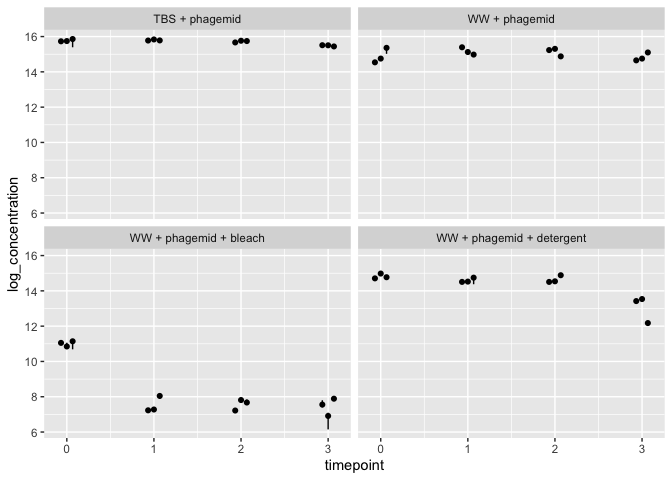
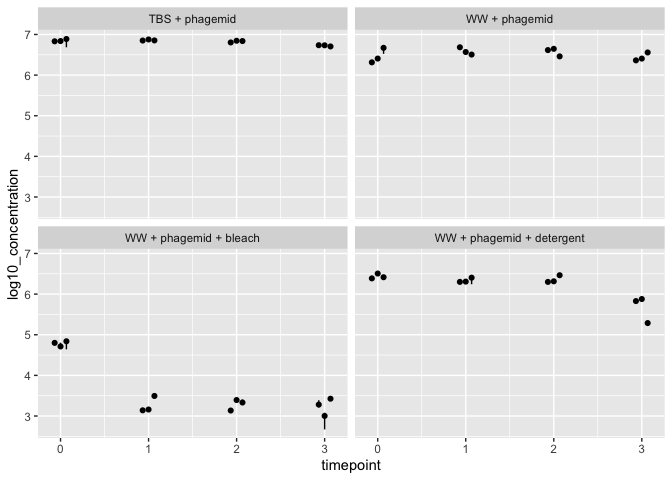
Fix error with the grouping of replicates

diff --git a/decay-experiment/qpcr_analysis.md b/decay-experiment/qpcr_analysis.md
@@ -325,23 +325,23 @@ data_concentration <- data_tidy |>
   filter(!control) |>
   mutate(
     dilution = (ct - std_curve_intercept) / std_curve_slope,
-    log_concentration = log(concentration_at_d0) + log(dilution_factor) * dilution,
+    log10_concentration = log10(concentration_at_d0) + log10(dilution_factor) * dilution,
   )
 kable(head(data_concentration, n = 10))
 ```
 
-|       ct | treatment_group | timepoint | tech_rep | well_position | ct_threshold | auto_ct_threshold | target_name | control | dilution | log_concentration |
-|---------:|:----------------|----------:|:---------|:--------------|-------------:|:------------------|:------------|:--------|---------:|------------------:|
-| 20.32065 | WW + phagemid   |         0 | 1        | C1            |          0.2 | FALSE             | Barcode_1   | FALSE   | 6.288793 |          14.46750 |
-| 19.76434 | WW + phagemid   |         0 | 2        | C2            |          0.2 | FALSE             | Barcode_1   | FALSE   | 6.439739 |          14.81506 |
-| 18.81370 | WW + phagemid   |         0 | 3        | C3            |          0.2 | FALSE             | Barcode_1   | FALSE   | 6.697681 |          15.40900 |
-| 18.81602 | WW + phagemid   |         1 | 1        | C4            |          0.2 | FALSE             | Barcode_1   | FALSE   | 6.697049 |          15.40754 |
-| 19.44741 | WW + phagemid   |         1 | 2        | C5            |          0.2 | FALSE             | Barcode_1   | FALSE   | 6.525733 |          15.01307 |
-| 19.54228 | WW + phagemid   |         1 | 3        | C6            |          0.2 | FALSE             | Barcode_1   | FALSE   | 6.499993 |          14.95380 |
-| 18.98299 | WW + phagemid   |         2 | 1        | C7            |          0.2 | FALSE             | Barcode_1   | FALSE   | 6.651747 |          15.30323 |
-| 18.98078 | WW + phagemid   |         2 | 2        | C8            |          0.2 | FALSE             | Barcode_1   | FALSE   | 6.652345 |          15.30461 |
-| 19.66541 | WW + phagemid   |         2 | 3        | C9            |          0.2 | FALSE             | Barcode_1   | FALSE   | 6.466582 |          14.87687 |
-| 20.02242 | WW + phagemid   |         3 | 1        | C10           |          0.2 | FALSE             | Barcode_1   | FALSE   | 6.369714 |          14.65382 |
+|       ct | treatment_group | timepoint | tech_rep | well_position | ct_threshold | auto_ct_threshold | target_name | control | dilution | log10_concentration |
+|---------:|:----------------|----------:|:---------|:--------------|-------------:|:------------------|:------------|:--------|---------:|--------------------:|
+| 20.32065 | WW + phagemid   |         0 | 1        | C1            |          0.2 | FALSE             | Barcode_1   | FALSE   | 6.288793 |            6.283155 |
+| 19.76434 | WW + phagemid   |         0 | 2        | C2            |          0.2 | FALSE             | Barcode_1   | FALSE   | 6.439739 |            6.434100 |
+| 18.81370 | WW + phagemid   |         0 | 3        | C3            |          0.2 | FALSE             | Barcode_1   | FALSE   | 6.697681 |            6.692042 |
+| 18.81602 | WW + phagemid   |         1 | 1        | C4            |          0.2 | FALSE             | Barcode_1   | FALSE   | 6.697049 |            6.691410 |
+| 19.44741 | WW + phagemid   |         1 | 2        | C5            |          0.2 | FALSE             | Barcode_1   | FALSE   | 6.525733 |            6.520094 |
+| 19.54228 | WW + phagemid   |         1 | 3        | C6            |          0.2 | FALSE             | Barcode_1   | FALSE   | 6.499993 |            6.494354 |
+| 18.98299 | WW + phagemid   |         2 | 1        | C7            |          0.2 | FALSE             | Barcode_1   | FALSE   | 6.651747 |            6.646108 |
+| 18.98078 | WW + phagemid   |         2 | 2        | C8            |          0.2 | FALSE             | Barcode_1   | FALSE   | 6.652345 |            6.646706 |
+| 19.66541 | WW + phagemid   |         2 | 3        | C9            |          0.2 | FALSE             | Barcode_1   | FALSE   | 6.466582 |            6.460943 |
+| 20.02242 | WW + phagemid   |         3 | 1        | C10           |          0.2 | FALSE             | Barcode_1   | FALSE   | 6.369714 |            6.364075 |
 
 Since we have three PCR replicates per technical replicate, we can
 summarize our data with min, median, and max without any loss of
@@ -351,64 +351,64 @@ information.
 data_concentration |>
   group_by(treatment_group, timepoint, tech_rep) |>
   summarize(
-    conc_min = min(log_concentration, na.rm = TRUE),
-    conc_med = median(log_concentration, na.rm = TRUE),
-    conc_max = max(log_concentration, na.rm = TRUE),
+    conc_min = min(log10_concentration, na.rm = TRUE),
+    conc_med = median(log10_concentration, na.rm = TRUE),
+    conc_max = max(log10_concentration, na.rm = TRUE),
     .groups="drop"
   ) |> 
   kable()
 ```
 
-| treatment_group           | timepoint | tech_rep |  conc_min |  conc_med |  conc_max |
-|:--------------------------|----------:|:---------|----------:|----------:|----------:|
-| TBS + phagemid            |         0 | 1        | 15.585203 | 15.730980 | 15.774331 |
-| TBS + phagemid            |         0 | 2        | 15.640385 | 15.744967 | 15.827471 |
-| TBS + phagemid            |         0 | 3        | 15.392854 | 15.860508 | 15.891046 |
-| TBS + phagemid            |         1 | 1        | 15.766611 | 15.774405 | 15.815867 |
-| TBS + phagemid            |         1 | 2        | 15.799626 | 15.835428 | 15.892060 |
-| TBS + phagemid            |         1 | 3        | 15.766942 | 15.780796 | 15.817647 |
-| TBS + phagemid            |         2 | 1        | 15.630437 | 15.666167 | 15.683122 |
-| TBS + phagemid            |         2 | 2        | 15.748995 | 15.762468 | 15.825183 |
-| TBS + phagemid            |         2 | 3        | 15.745316 | 15.745680 | 15.763973 |
-| TBS + phagemid            |         3 | 1        | 15.471512 | 15.509831 | 15.526576 |
-| TBS + phagemid            |         3 | 2        | 15.490110 | 15.504371 | 15.567375 |
-| TBS + phagemid            |         3 | 3        | 15.388014 | 15.439595 | 15.448920 |
-| WW + phagemid             |         0 | 1        | 14.467498 | 14.539121 | 14.559697 |
-| WW + phagemid             |         0 | 2        | 14.704875 | 14.752250 | 14.815063 |
-| WW + phagemid             |         0 | 3        | 15.020836 | 15.360500 | 15.408997 |
-| WW + phagemid             |         1 | 1        | 15.315593 | 15.392311 | 15.407542 |
-| WW + phagemid             |         1 | 2        | 15.013071 | 15.123416 | 15.193376 |
-| WW + phagemid             |         1 | 3        | 14.953803 | 14.979106 | 15.100242 |
-| WW + phagemid             |         2 | 1        | 15.222434 | 15.233419 | 15.303230 |
-| WW + phagemid             |         2 | 2        | 15.183994 | 15.304607 | 15.330360 |
-| WW + phagemid             |         2 | 3        | 14.873419 | 14.876872 | 14.948056 |
-| WW + phagemid             |         3 | 1        | 14.631852 | 14.651272 | 14.653825 |
-| WW + phagemid             |         3 | 2        | 14.742572 | 14.751832 | 14.800324 |
-| WW + phagemid             |         3 | 3        | 15.042985 | 15.098861 | 15.100316 |
-| WW + phagemid + bleach    |         0 | 1        | 11.023879 | 11.052359 | 11.103619 |
-| WW + phagemid + bleach    |         0 | 2        | 10.819916 | 10.849192 | 11.061266 |
-| WW + phagemid + bleach    |         0 | 3        | 10.687431 | 11.142662 | 11.213070 |
-| WW + phagemid + bleach    |         1 | 1        |  7.185397 |  7.231021 |  7.245195 |
-| WW + phagemid + bleach    |         1 | 2        |  7.247885 |  7.276237 |  7.328588 |
-| WW + phagemid + bleach    |         1 | 3        |  7.880027 |  8.045826 |  8.107687 |
-| WW + phagemid + bleach    |         2 | 1        |  7.131532 |  7.219262 |  7.287010 |
-| WW + phagemid + bleach    |         2 | 2        |  7.770489 |  7.813055 |  7.832202 |
-| WW + phagemid + bleach    |         2 | 3        |  7.650187 |  7.672781 |  7.842286 |
-| WW + phagemid + bleach    |         3 | 1        |  7.398282 |  7.554920 |  7.801422 |
-| WW + phagemid + bleach    |         3 | 2        |  6.148432 |  6.912249 |  7.093166 |
-| WW + phagemid + bleach    |         3 | 3        |  7.767307 |  7.889023 |  7.912897 |
-| WW + phagemid + detergent |         0 | 1        | 14.691215 | 14.707181 | 14.723714 |
-| WW + phagemid + detergent |         0 | 2        | 14.937496 | 14.981082 | 14.986873 |
-| WW + phagemid + detergent |         0 | 3        | 14.630075 | 14.772313 | 14.884848 |
-| WW + phagemid + detergent |         1 | 1        | 14.460672 | 14.507884 | 14.530743 |
-| WW + phagemid + detergent |         1 | 2        | 14.431200 | 14.524827 | 14.569874 |
-| WW + phagemid + detergent |         1 | 3        | 14.375207 | 14.747474 | 14.834689 |
-| WW + phagemid + detergent |         2 | 1        | 14.445850 | 14.506649 | 14.514520 |
-| WW + phagemid + detergent |         2 | 2        | 14.399098 | 14.540501 | 14.597506 |
-| WW + phagemid + detergent |         2 | 3        | 14.829546 | 14.885799 | 14.944224 |
-| WW + phagemid + detergent |         3 | 1        | 13.393890 | 13.420946 | 13.479134 |
-| WW + phagemid + detergent |         3 | 2        | 13.508365 | 13.536396 | 13.662985 |
-| WW + phagemid + detergent |         3 | 3        | 12.045272 | 12.175395 | 12.181063 |
+| treatment_group           | timepoint | tech_rep | conc_min | conc_med | conc_max |
+|:--------------------------|----------:|:---------|---------:|---------:|---------:|
+| TBS + phagemid            |         0 | 1        | 6.768568 | 6.831878 | 6.850705 |
+| TBS + phagemid            |         0 | 2        | 6.792533 | 6.837952 | 6.873783 |
+| TBS + phagemid            |         0 | 3        | 6.685031 | 6.888131 | 6.901394 |
+| TBS + phagemid            |         1 | 1        | 6.847352 | 6.850737 | 6.868744 |
+| TBS + phagemid            |         1 | 2        | 6.861691 | 6.877239 | 6.901834 |
+| TBS + phagemid            |         1 | 3        | 6.847496 | 6.853513 | 6.869517 |
+| TBS + phagemid            |         2 | 1        | 6.788213 | 6.803730 | 6.811093 |
+| TBS + phagemid            |         2 | 2        | 6.839702 | 6.845553 | 6.872789 |
+| TBS + phagemid            |         2 | 3        | 6.838104 | 6.838262 | 6.846207 |
+| TBS + phagemid            |         3 | 1        | 6.719192 | 6.735834 | 6.743106 |
+| TBS + phagemid            |         3 | 2        | 6.727269 | 6.733463 | 6.760825 |
+| TBS + phagemid            |         3 | 3        | 6.682930 | 6.705331 | 6.709381 |
+| WW + phagemid             |         0 | 1        | 6.283155 | 6.314260 | 6.323196 |
+| WW + phagemid             |         0 | 2        | 6.386246 | 6.406821 | 6.434100 |
+| WW + phagemid             |         0 | 3        | 6.523466 | 6.670980 | 6.692042 |
+| WW + phagemid             |         1 | 1        | 6.651478 | 6.684796 | 6.691410 |
+| WW + phagemid             |         1 | 2        | 6.520094 | 6.568016 | 6.598399 |
+| WW + phagemid             |         1 | 3        | 6.494354 | 6.505343 | 6.557952 |
+| WW + phagemid             |         2 | 1        | 6.611019 | 6.615790 | 6.646108 |
+| WW + phagemid             |         2 | 2        | 6.594325 | 6.646706 | 6.657891 |
+| WW + phagemid             |         2 | 3        | 6.459444 | 6.460943 | 6.491859 |
+| WW + phagemid             |         3 | 1        | 6.354533 | 6.362967 | 6.364075 |
+| WW + phagemid             |         3 | 2        | 6.402617 | 6.406639 | 6.427699 |
+| WW + phagemid             |         3 | 3        | 6.533085 | 6.557352 | 6.557984 |
+| WW + phagemid + bleach    |         0 | 1        | 4.787610 | 4.799978 | 4.822240 |
+| WW + phagemid + bleach    |         0 | 2        | 4.699030 | 4.711744 | 4.803847 |
+| WW + phagemid + bleach    |         0 | 3        | 4.641492 | 4.839197 | 4.869774 |
+| WW + phagemid + bleach    |         1 | 1        | 3.120579 | 3.140393 | 3.146548 |
+| WW + phagemid + bleach    |         1 | 2        | 3.147717 | 3.160030 | 3.182765 |
+| WW + phagemid + bleach    |         1 | 3        | 3.422252 | 3.494258 | 3.521124 |
+| WW + phagemid + bleach    |         2 | 1        | 3.097185 | 3.135286 | 3.164708 |
+| WW + phagemid + bleach    |         2 | 2        | 3.374681 | 3.393167 | 3.401482 |
+| WW + phagemid + bleach    |         2 | 3        | 3.322434 | 3.332246 | 3.405861 |
+| WW + phagemid + bleach    |         3 | 1        | 3.213033 | 3.281060 | 3.388114 |
+| WW + phagemid + bleach    |         3 | 2        | 2.670230 | 3.001952 | 3.080523 |
+| WW + phagemid + bleach    |         3 | 3        | 3.373299 | 3.426159 | 3.436528 |
+| WW + phagemid + detergent |         0 | 1        | 6.380314 | 6.387247 | 6.394428 |
+| WW + phagemid + detergent |         0 | 2        | 6.487272 | 6.506201 | 6.508716 |
+| WW + phagemid + detergent |         0 | 3        | 6.353761 | 6.415534 | 6.464407 |
+| WW + phagemid + detergent |         1 | 1        | 6.280190 | 6.300694 | 6.310621 |
+| WW + phagemid + detergent |         1 | 2        | 6.267391 | 6.308052 | 6.327616 |
+| WW + phagemid + detergent |         1 | 3        | 6.243073 | 6.404747 | 6.442623 |
+| WW + phagemid + detergent |         2 | 1        | 6.273753 | 6.300157 | 6.303576 |
+| WW + phagemid + detergent |         2 | 2        | 6.253449 | 6.314859 | 6.339616 |
+| WW + phagemid + detergent |         2 | 3        | 6.440390 | 6.464820 | 6.490194 |
+| WW + phagemid + detergent |         3 | 1        | 5.816892 | 5.828643 | 5.853913 |
+| WW + phagemid + detergent |         3 | 2        | 5.866608 | 5.878782 | 5.933759 |
+| WW + phagemid + detergent |         3 | 3        | 5.231195 | 5.287707 | 5.290168 |
 
 # Plot log concentrations vs time for each condition
 
@@ -418,7 +418,7 @@ differences in absolute as well as relative concentration.
 ``` r
 data_concentration |> 
   ggplot(
-    aes(timepoint, log_concentration, shape = treatment_group, color = treatment_group)
+    aes(timepoint, log10_concentration, shape = treatment_group, color = treatment_group)
     ) +
   geom_point(
     position = position_jitter(height = 0, width = 0.1, seed = 3579237)
@@ -431,7 +431,7 @@ Let’s look at within- vs between-technical replicate variation:
 
 ``` r
 data_concentration |>
-  ggplot(aes(timepoint,log_concentration, group = tech_rep)) +
+  ggplot(aes(timepoint,log10_concentration, group = tech_rep)) +
   stat_summary(
     fun.min = min,
     fun.max = max,
@@ -451,7 +451,7 @@ replicates, so let’s let the y-axis vary:
 
 ``` r
 data_concentration |>
-  ggplot(aes(timepoint,log_concentration, group = tech_rep)) +
+  ggplot(aes(timepoint,log10_concentration, group = tech_rep)) +
   stat_summary(
     fun.min = min,
     fun.max = max,
@@ -489,7 +489,7 @@ We can use a Loess curve to see the trend for each treatment:
 
 ``` r
 data_concentration |>
-  ggplot(aes(timepoint, log_concentration, color=treatment_group)) +
+  ggplot(aes(timepoint, log10_concentration, color=treatment_group)) +
   geom_point() +
   geom_smooth()
 ```
@@ -503,7 +503,7 @@ can also use a linear model:
 
 ``` r
 data_concentration |>
-  ggplot(aes(timepoint, log_concentration, color=treatment_group)) +
+  ggplot(aes(timepoint, log10_concentration, color=treatment_group)) +
   geom_point() +
   geom_smooth(
     method = "lm"
@@ -518,7 +518,7 @@ data_concentration |>
 treatments_to_keep <- unique(data_concentration$treatment_group) 
 models <- treatments_to_keep |> 
   map(~ filter(data_concentration, treatment_group == .)) |>
-  map(~ lm(log_concentration ~ timepoint, .)) |>
+  map(~ lm(log10_concentration ~ timepoint, .)) |>
   map(tidy) |>
   map2(
     treatments_to_keep,
@@ -530,14 +530,14 @@ kable(models)
 
 | treatment_group           | collapsed | term        |   estimate | std.error |   statistic |   p.value |
 |:--------------------------|:----------|:------------|-----------:|----------:|------------:|----------:|
-| WW + phagemid             | FALSE     | (Intercept) | 15.0071602 | 0.0783592 | 191.5175973 | 0.0000000 |
-| WW + phagemid             | FALSE     | timepoint   | -0.0074119 | 0.0418847 |  -0.1769585 | 0.8605909 |
-| WW + phagemid + detergent | FALSE     | (Intercept) | 15.0443407 | 0.1526598 |  98.5481520 | 0.0000000 |
-| WW + phagemid + detergent | FALSE     | timepoint   | -0.5228103 | 0.0816001 |  -6.4069822 | 0.0000003 |
-| WW + phagemid + bleach    | FALSE     | (Intercept) |  9.9792068 | 0.2863794 |  34.8461059 | 0.0000000 |
-| WW + phagemid + bleach    | FALSE     | timepoint   | -1.0750682 | 0.1530762 |  -7.0230909 | 0.0000000 |
-| TBS + phagemid            | FALSE     | (Intercept) | 15.8001163 | 0.0342951 | 460.7106971 | 0.0000000 |
-| TBS + phagemid            | FALSE     | timepoint   | -0.0775818 | 0.0183315 |  -4.2321566 | 0.0001657 |
+| WW + phagemid             | FALSE     | (Intercept) |  6.5175269 | 0.0340310 | 191.5175973 | 0.0000000 |
+| WW + phagemid             | FALSE     | timepoint   | -0.0032189 | 0.0181903 |  -0.1769585 | 0.8605909 |
+| WW + phagemid + detergent | FALSE     | (Intercept) |  6.5336741 | 0.0662993 |  98.5481520 | 0.0000000 |
+| WW + phagemid + detergent | FALSE     | timepoint   | -0.2270536 | 0.0354385 |  -6.4069822 | 0.0000003 |
+| WW + phagemid + bleach    | FALSE     | (Intercept) |  4.3339145 | 0.1243730 |  34.8461059 | 0.0000000 |
+| WW + phagemid + bleach    | FALSE     | timepoint   | -0.4668962 | 0.0664802 |  -7.0230909 | 0.0000000 |
+| TBS + phagemid            | FALSE     | (Intercept) |  6.8619033 | 0.0148942 | 460.7106971 | 0.0000000 |
+| TBS + phagemid            | FALSE     | timepoint   | -0.0336933 | 0.0079613 |  -4.2321566 | 0.0001657 |
 
 ## Collapsing qPCR replicates
 
@@ -545,20 +545,28 @@ Now, we create a new table that collapses the qPCR replicates:
 
 ``` r
 data_collapsed <- data_concentration |> 
-  group_by(treatment_group, timepoint) |>
-  summarise(log_concentration = mean(log_concentration), .groups="drop")
+  group_by(treatment_group, timepoint, tech_rep) |>
+  summarise(log10_concentration = mean(log10_concentration), .groups="drop")
 ```
 
-The Loess smoother is uninteresting because it will just draw a curve
-through the points with no error.
-
-On the other hand, we now have much wider error bars on our linear
-estimates. Just as the independent approximation meant that the errors
-were too optimistic, this approximation is too conservative.
+With the collapse, we have wider error bars on our linear estimates.
+Just as the independent approximation meant that the errors were too
+optimistic, this approximation is too conservative.
 
 ``` r
 data_collapsed |>
-  ggplot(aes(timepoint, log_concentration, color=treatment_group)) +
+  ggplot(aes(timepoint, log10_concentration, color=treatment_group)) +
+  geom_point() +
+  geom_smooth()
+```
+
+    ## `geom_smooth()` using method = 'loess' and formula = 'y ~ x'
+
+![](qpcr_analysis_files/figure-gfm/unnamed-chunk-20-1.png)<!-- -->
+
+``` r
+data_collapsed |>
+  ggplot(aes(timepoint, log10_concentration, color=treatment_group)) +
   geom_point() +
   geom_smooth(
     method = "lm"
@@ -567,7 +575,7 @@ data_collapsed |>
 
     ## `geom_smooth()` using formula = 'y ~ x'
 
-![](qpcr_analysis_files/figure-gfm/unnamed-chunk-20-1.png)<!-- -->
+![](qpcr_analysis_files/figure-gfm/unnamed-chunk-21-1.png)<!-- -->
 
 We can fit linear models separately for each timepoint and examine the
 coefficients and standard errors:
@@ -575,7 +583,7 @@ coefficients and standard errors:
 ``` r
 models_collapsed <- treatments_to_keep |> 
   map(~ filter(data_collapsed, treatment_group == .)) |>
-  map(~ lm(log_concentration ~ timepoint, .)) |>
+  map(~ lm(log10_concentration ~ timepoint, .)) |>
   map(tidy) |>
   map2(
     treatments_to_keep,
@@ -585,16 +593,16 @@ models_collapsed <- treatments_to_keep |>
 kable(models_collapsed)
 ```
 
-| treatment_group           | collapsed | term        |   estimate | std.error |   statistic |   p.value |
-|:--------------------------|:----------|:------------|-----------:|----------:|------------:|----------:|
-| WW + phagemid             | TRUE      | (Intercept) | 15.0071602 | 0.1858890 |  80.7318212 | 0.0001534 |
-| WW + phagemid             | TRUE      | timepoint   | -0.0074119 | 0.0993619 |  -0.0745946 | 0.9473269 |
-| WW + phagemid + detergent | TRUE      | (Intercept) | 15.0443407 | 0.4725921 |  31.8336698 | 0.0009853 |
-| WW + phagemid + detergent | TRUE      | timepoint   | -0.5228103 | 0.2526111 |  -2.0696254 | 0.1743497 |
-| WW + phagemid + bleach    | TRUE      | (Intercept) |  9.9792068 | 1.0988973 |   9.0811095 | 0.0119099 |
-| WW + phagemid + bleach    | TRUE      | timepoint   | -1.0750682 | 0.5873853 |  -1.8302607 | 0.2086985 |
-| TBS + phagemid            | TRUE      | (Intercept) | 15.8001163 | 0.0994830 | 158.8222377 | 0.0000396 |
-| TBS + phagemid            | TRUE      | timepoint   | -0.0775818 | 0.0531759 |  -1.4589646 | 0.2819668 |
+| treatment_group           | collapsed | term        |   estimate | std.error |  statistic |   p.value |
+|:--------------------------|:----------|:------------|-----------:|----------:|-----------:|----------:|
+| WW + phagemid             | TRUE      | (Intercept) |  6.5175269 | 0.0608769 | 107.060722 | 0.0000000 |
+| WW + phagemid             | TRUE      | timepoint   | -0.0032189 | 0.0325401 |  -0.098922 | 0.9231551 |
+| WW + phagemid + detergent | TRUE      | (Intercept) |  6.5336741 | 0.1208882 |  54.047265 | 0.0000000 |
+| WW + phagemid + detergent | TRUE      | timepoint   | -0.2270536 | 0.0646174 |  -3.513814 | 0.0055959 |
+| WW + phagemid + bleach    | TRUE      | (Intercept) |  4.3339145 | 0.2265403 |  19.130880 | 0.0000000 |
+| WW + phagemid + bleach    | TRUE      | timepoint   | -0.4668962 | 0.1210909 |  -3.855751 | 0.0031822 |
+| TBS + phagemid            | TRUE      | (Intercept) |  6.8619033 | 0.0210399 | 326.137321 | 0.0000000 |
+| TBS + phagemid            | TRUE      | timepoint   | -0.0336933 | 0.0112463 |  -2.995946 | 0.0134364 |
 
 Collapsing the qPCR replicates increases the standard error of the
 regression coefficients:
@@ -607,6 +615,6 @@ rbind(models, models_collapsed) |>
   geom_point()
 ```
 
-![](qpcr_analysis_files/figure-gfm/unnamed-chunk-22-1.png)<!-- -->
+![](qpcr_analysis_files/figure-gfm/unnamed-chunk-23-1.png)<!-- -->
 
 ## Hierarchical model \[TODO\]
